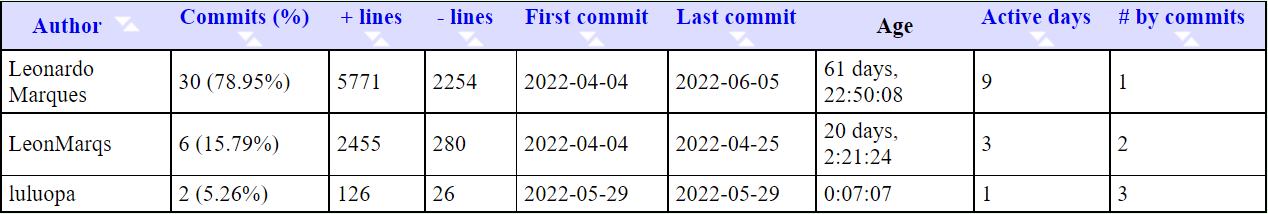
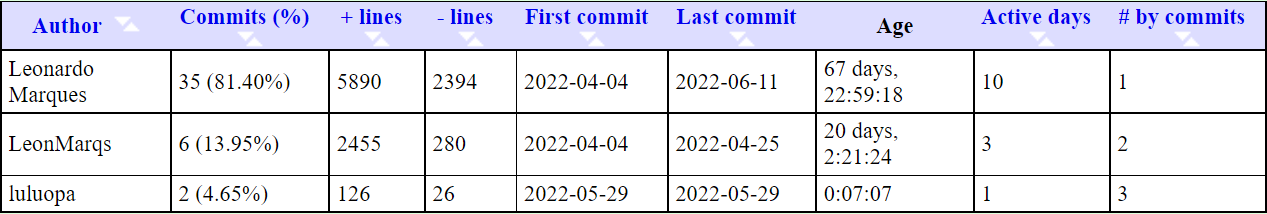
atualiza dados estatísticos do repositório git

diff --git a/entrega-inicial/capitulos/planejamento-e-gerenciamento/section-estatistica-repos.tex b/entrega-inicial/capitulos/planejamento-e-gerenciamento/section-estatistica-repos.tex
@@ -43,11 +43,19 @@ A \autoref{overview-front} demonstra uma visão geral sobre alguns dados do repo
 	\fonte{Os autores - Criado via \gls{gitstats}}
 \end{figure}
 
-A \autoref{overview-back} demonstra uma visão geral sobre alguns dados do repositório onde hospedamos o nosso backend, onde podemos notar algumas diferenças entre ele e o \gls{frontend}.
+A \autoref{overview-back} demonstra uma visão geral sobre alguns dados do repositório onde hospedamos o nosso backend, e podemos notar algumas diferenças entre ele e o \gls{frontend}.
 \begin{figure}[H]
 	\centering
 	\caption{\label{overview-back}Visão geral - Projeto Backend}
 	\includegraphics[width=0.95\textwidth]{../imagens/stats/overview-backend.png}
+	\fonte{Os autores - Criado via \gls{gitstats}}
+\end{figure}
+
+A \autoref{overview-doc} demonstra uma visão geral sobre alguns dados principais do nosso repositório onde versionamos os documentos latex do nosso projeto.
+\begin{figure}[H]
+	\centering
+	\caption{\label{overview-doc}Visão geral - Projeto Documentos}
+	\includegraphics[width=0.95\textwidth]{../imagens/stats/overview-documentos.png}
 	\fonte{Os autores - Criado via \gls{gitstats}}
 \end{figure}
 
@@ -91,7 +99,7 @@ A \autoref{list-of-authors-back} lista os autores que contribuíram no repositó
 	\fonte{Os autores - Criado via \gls{gitstats}}
 \end{figure}
 
-A \autoref{list-of-authors-doc} lista os autores que contribuíram no repositório de documentos (repositório onde é versionado esse documento e os outros feitos em latex).
+A \autoref{list-of-authors-doc} lista os autores que contribuíram no repositório de documentos, onde houve o mesmo problema de separação da mesma pessoa (Leonardo Marques).
 \begin{figure}[H]
 	\centering
 	\caption{\label{list-of-authors-doc}Lista de autores - Projeto Documentos}

diff --git a/entrega-inicial/capitulos/planejamento-e-gerenciamento/section-val-headers-interface.tex b/entrega-inicial/capitulos/planejamento-e-gerenciamento/section-val-headers-interface.tex
@@ -51,9 +51,9 @@ Fizemos também uma verificação no nosso código, tanto no \gls{frontend} como
 	\fonte{\gls{bettercode}}
 \end{figure}
 
+\subsection{Validador \ac{html}}
 Fizemos também uma verificação no nosso \ac{html} do \ac{frontend}. A \autoref{validador-html} demonstra o resultado.
 
-\subsection{Validador \ac{html}}
 \begin{figure}[H]
 	\centering
 	\caption{\label{validador-html}Validação do \ac{html}}
